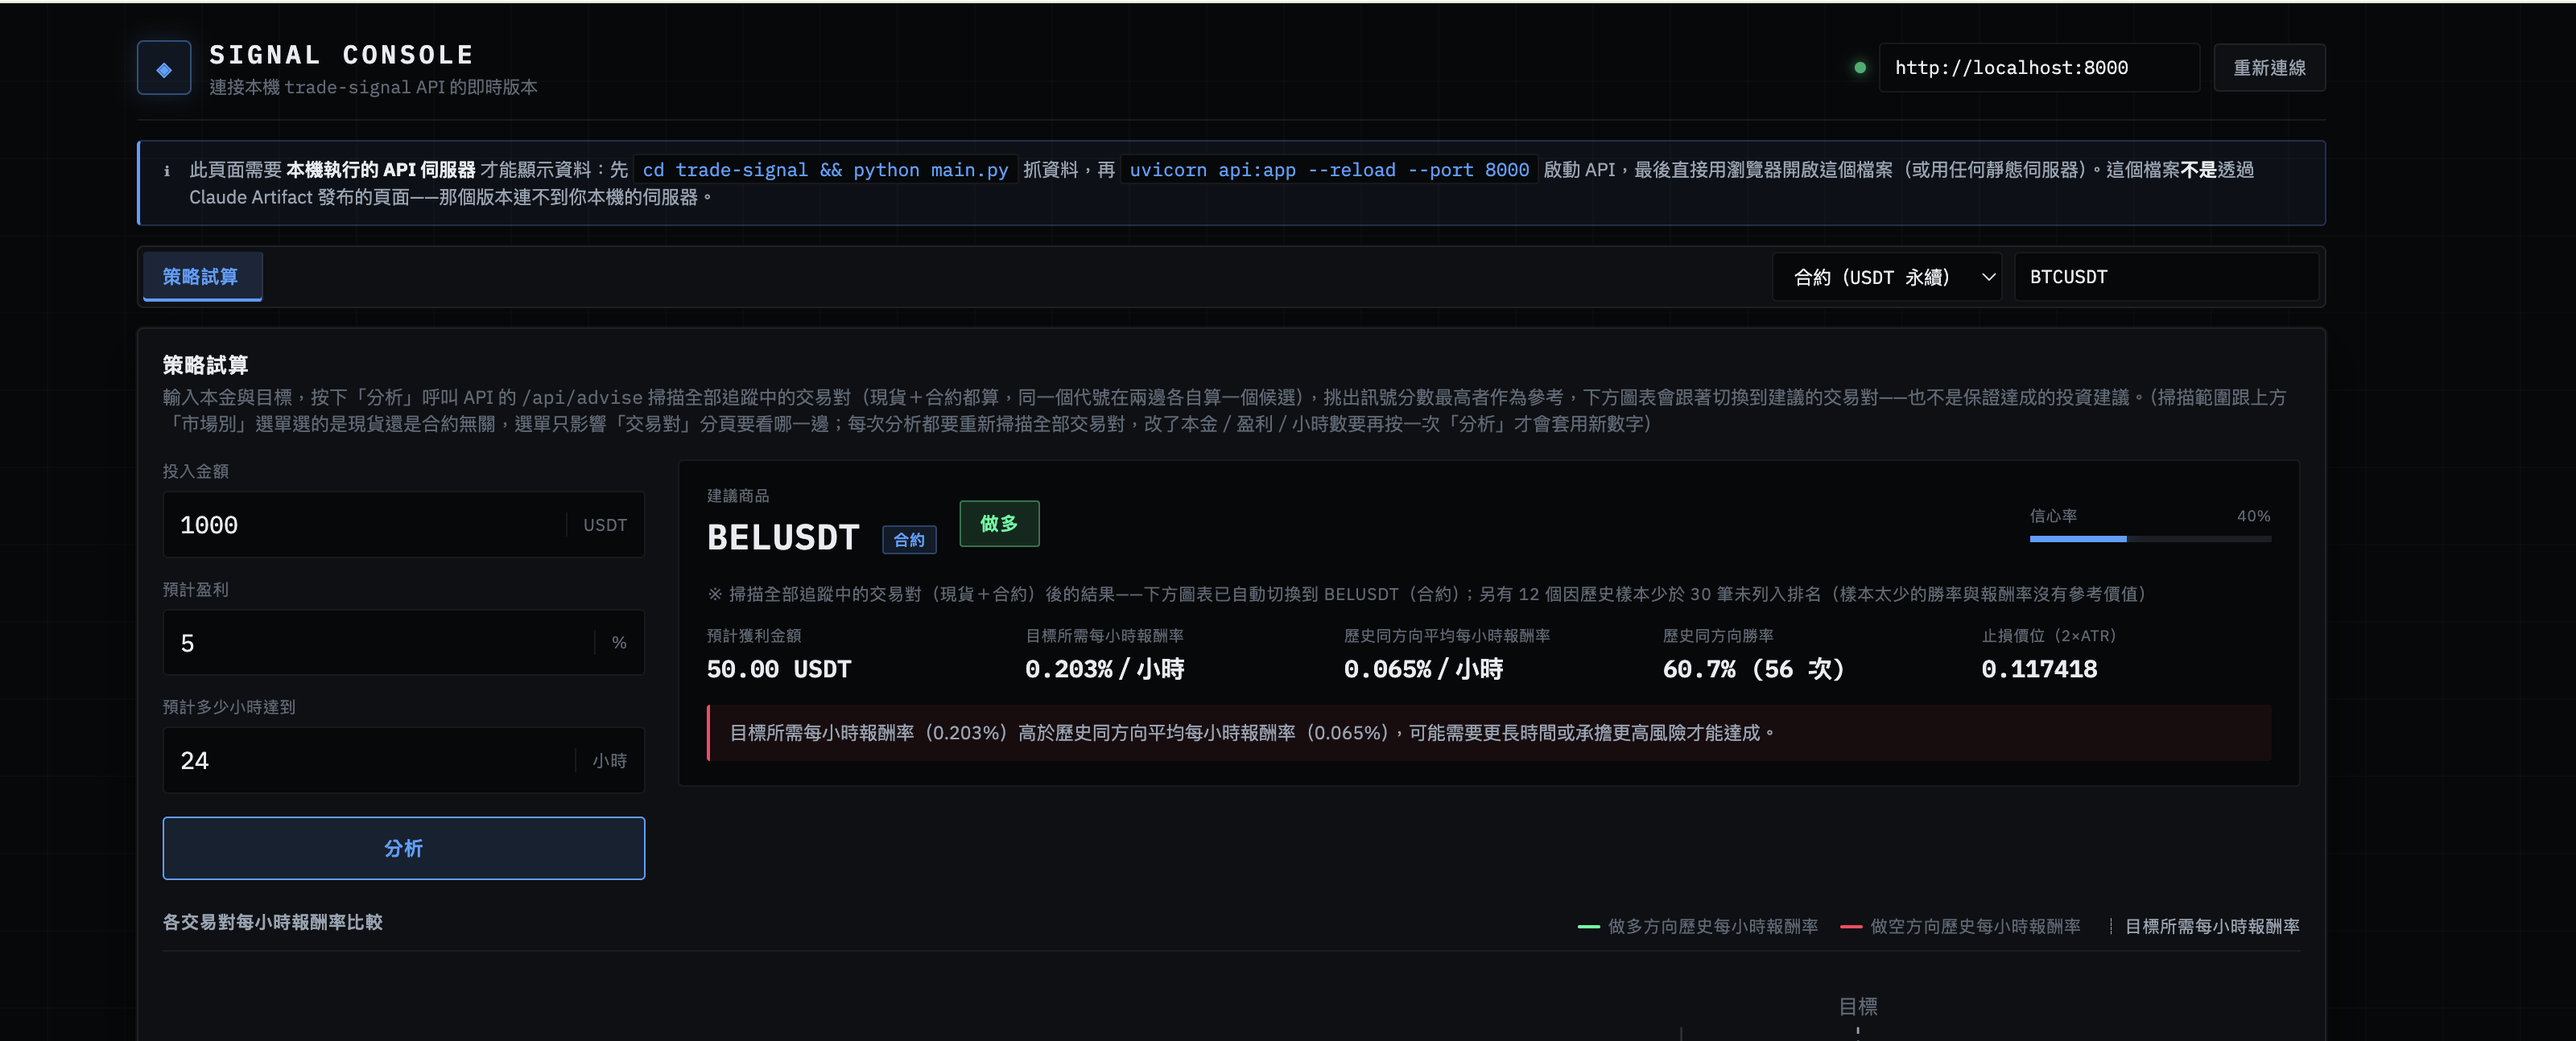
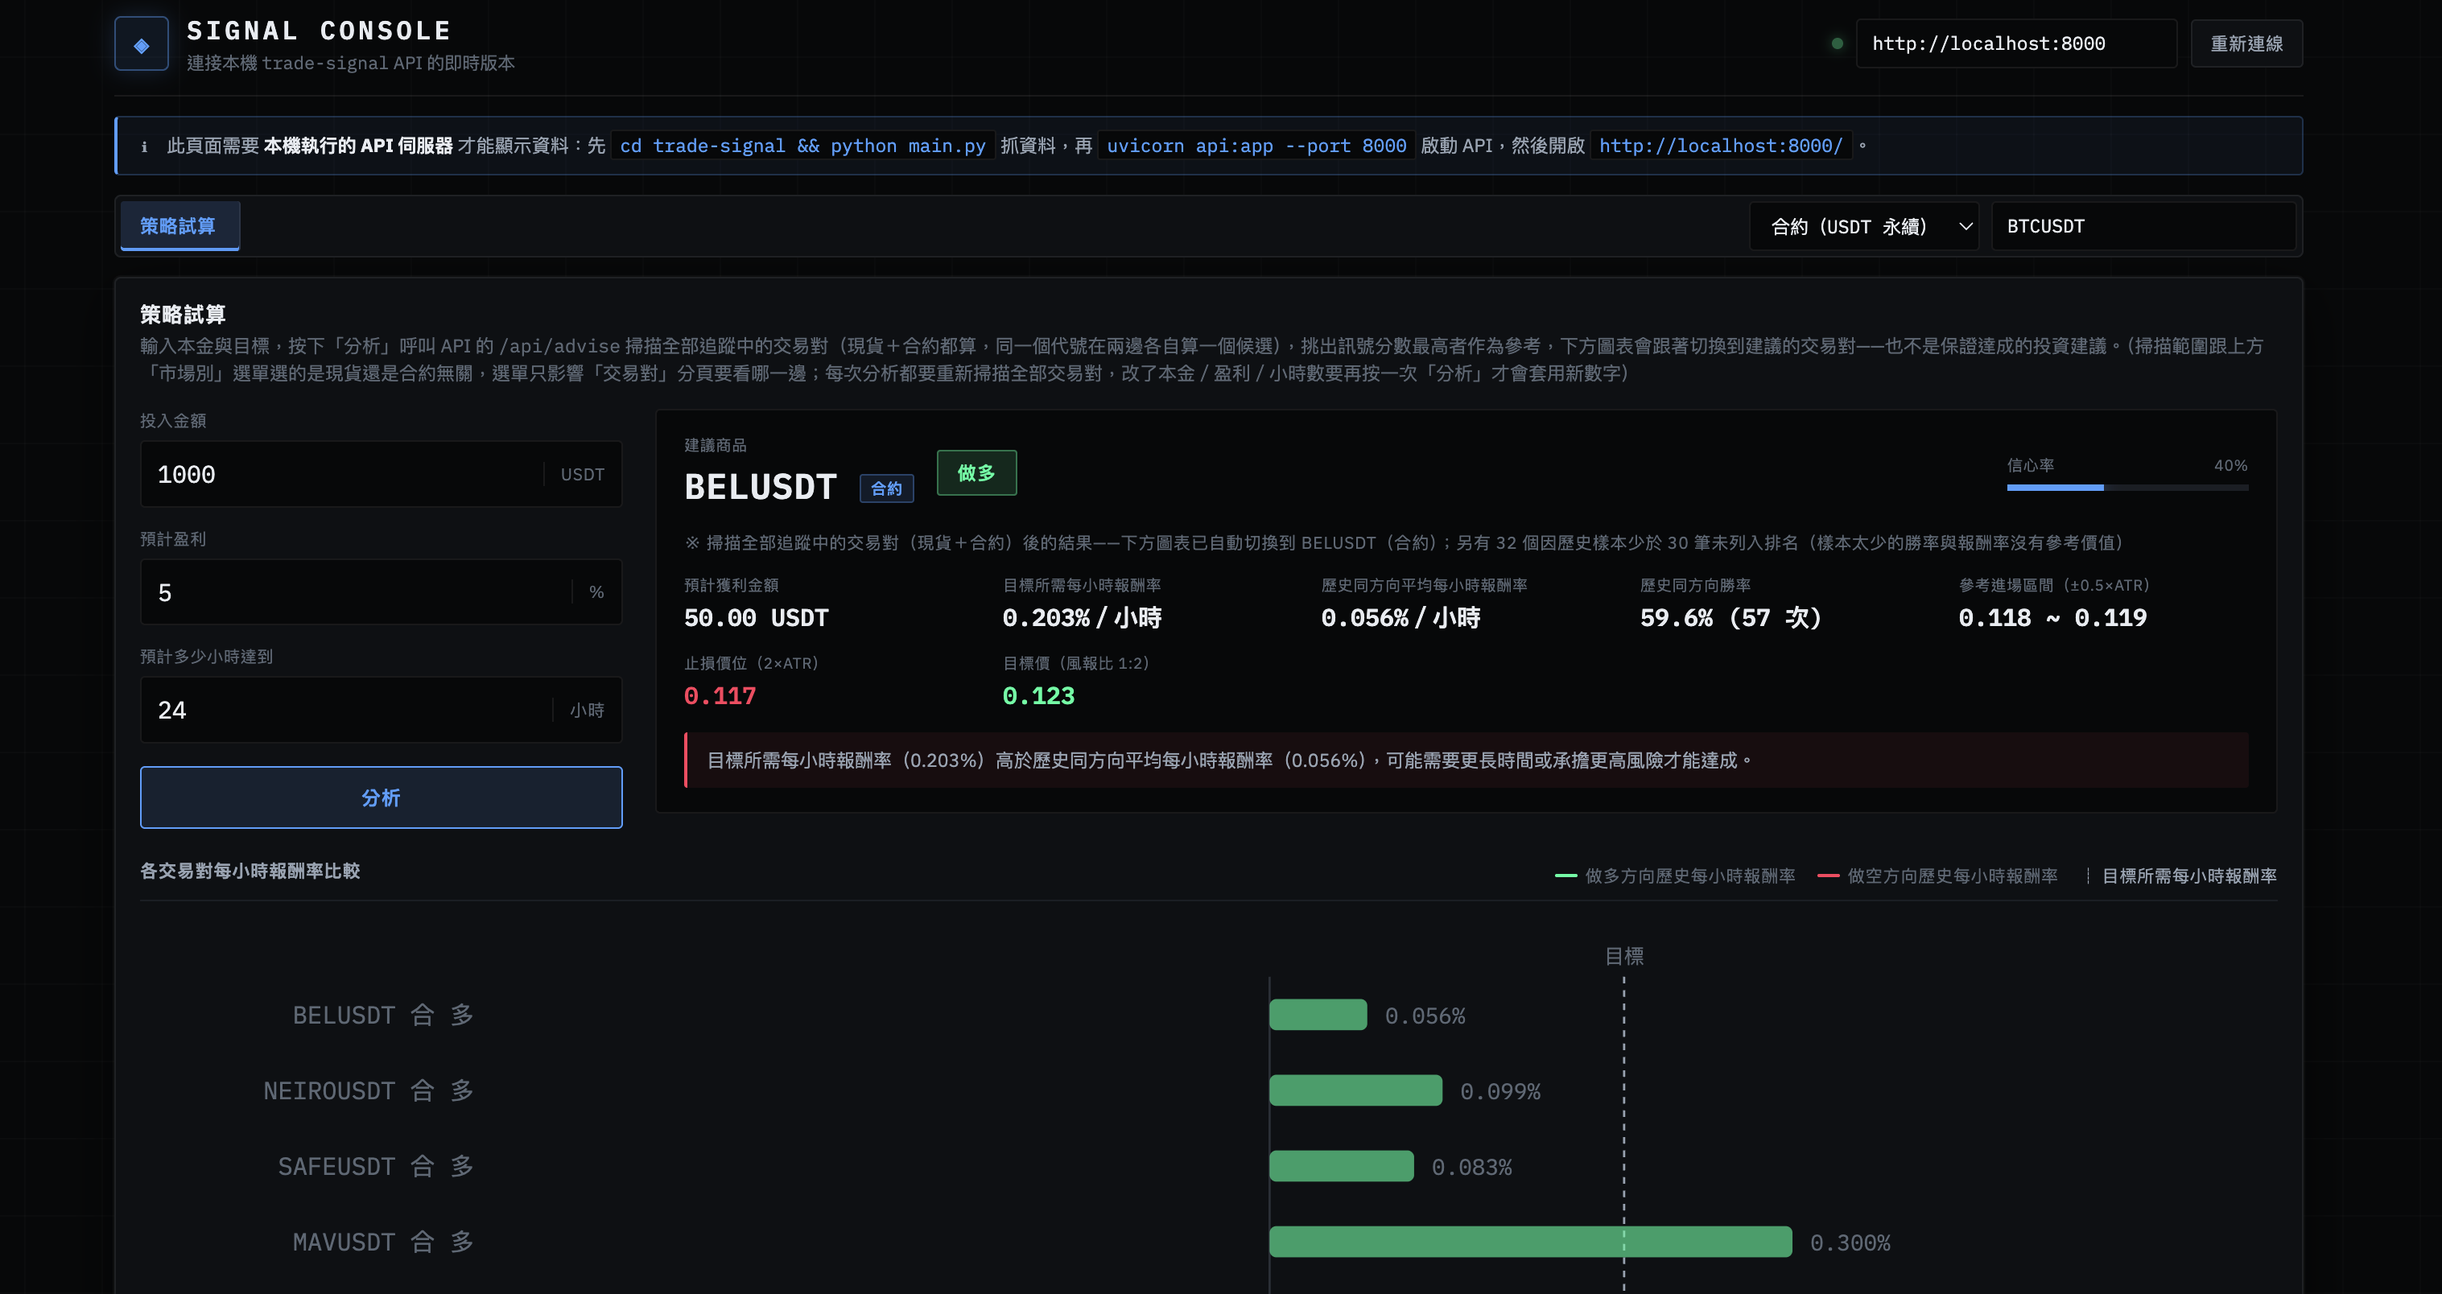
docs: 策略試算截圖換成含進場區間與目標價的版本
舊圖是 12:21 截的，早於「參考進場區間」與「目標價」兩個欄位加入，統計列
只有五格。新圖補齊七格，也看得到下方各候選與目標的橫條圖比較，橫幅則是
移除 Artifact 說明後的版本。

圖說跟著補上進場區間／止損／目標價與樣本排除的說明。

diff --git a/trade-signal/README.md b/trade-signal/README.md
@@ -4,7 +4,7 @@
 
 網頁介面（`frontend/console.html`，由 `api.py` 掛在根路徑）分成兩個分頁。
 
-**策略試算**——輸入本金、目標盈利與預計小時數，掃描全部追蹤中的交易對，列出訊號方向、信心率，以及那個方向的歷史勝率與平均每小時報酬率，並在目標高於歷史節奏時直接說出來：
+**策略試算**——輸入本金、目標盈利與預計小時數，掃描全部追蹤中的交易對，挑出訊號方向與信心率，附上那個方向的歷史勝率、平均每小時報酬率，以及參考進場區間、止損與目標價（都是 ATR 的算術）。目標高於歷史節奏時會直接說出來，樣本太少的候選也會標明排除了幾個。下方橫條圖把每個候選都跟目標畫在一起比較：
 
 ![策略試算](docs/console.png)
 
